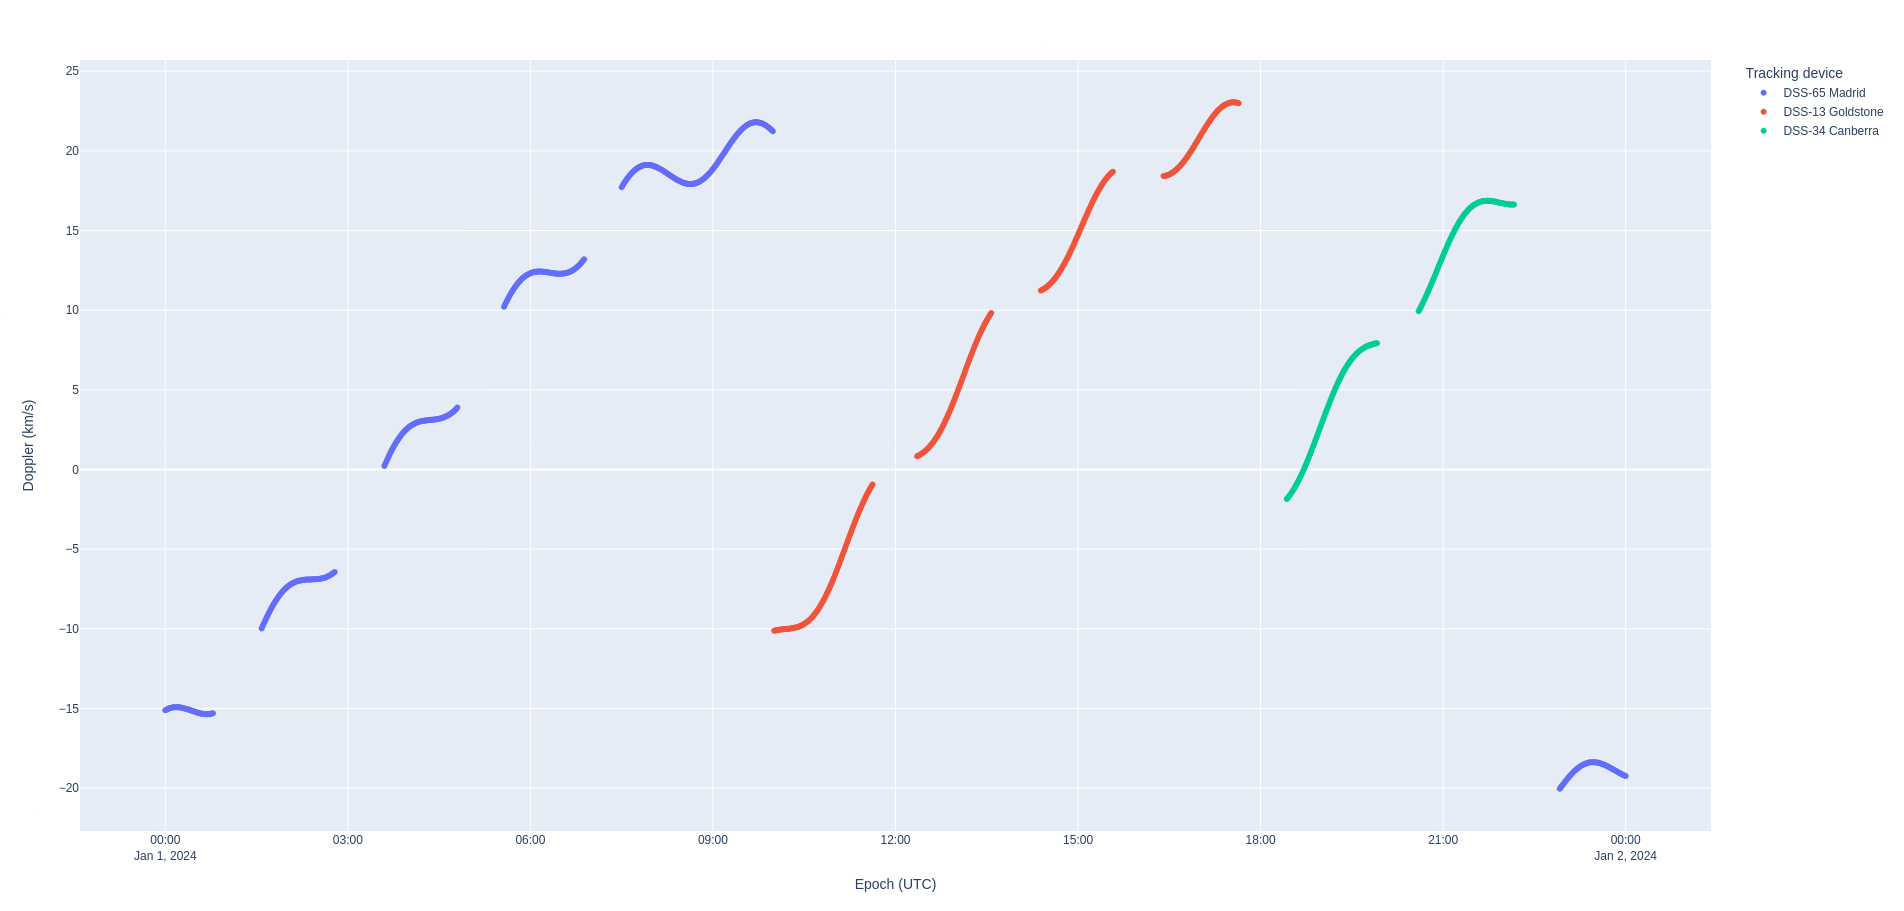
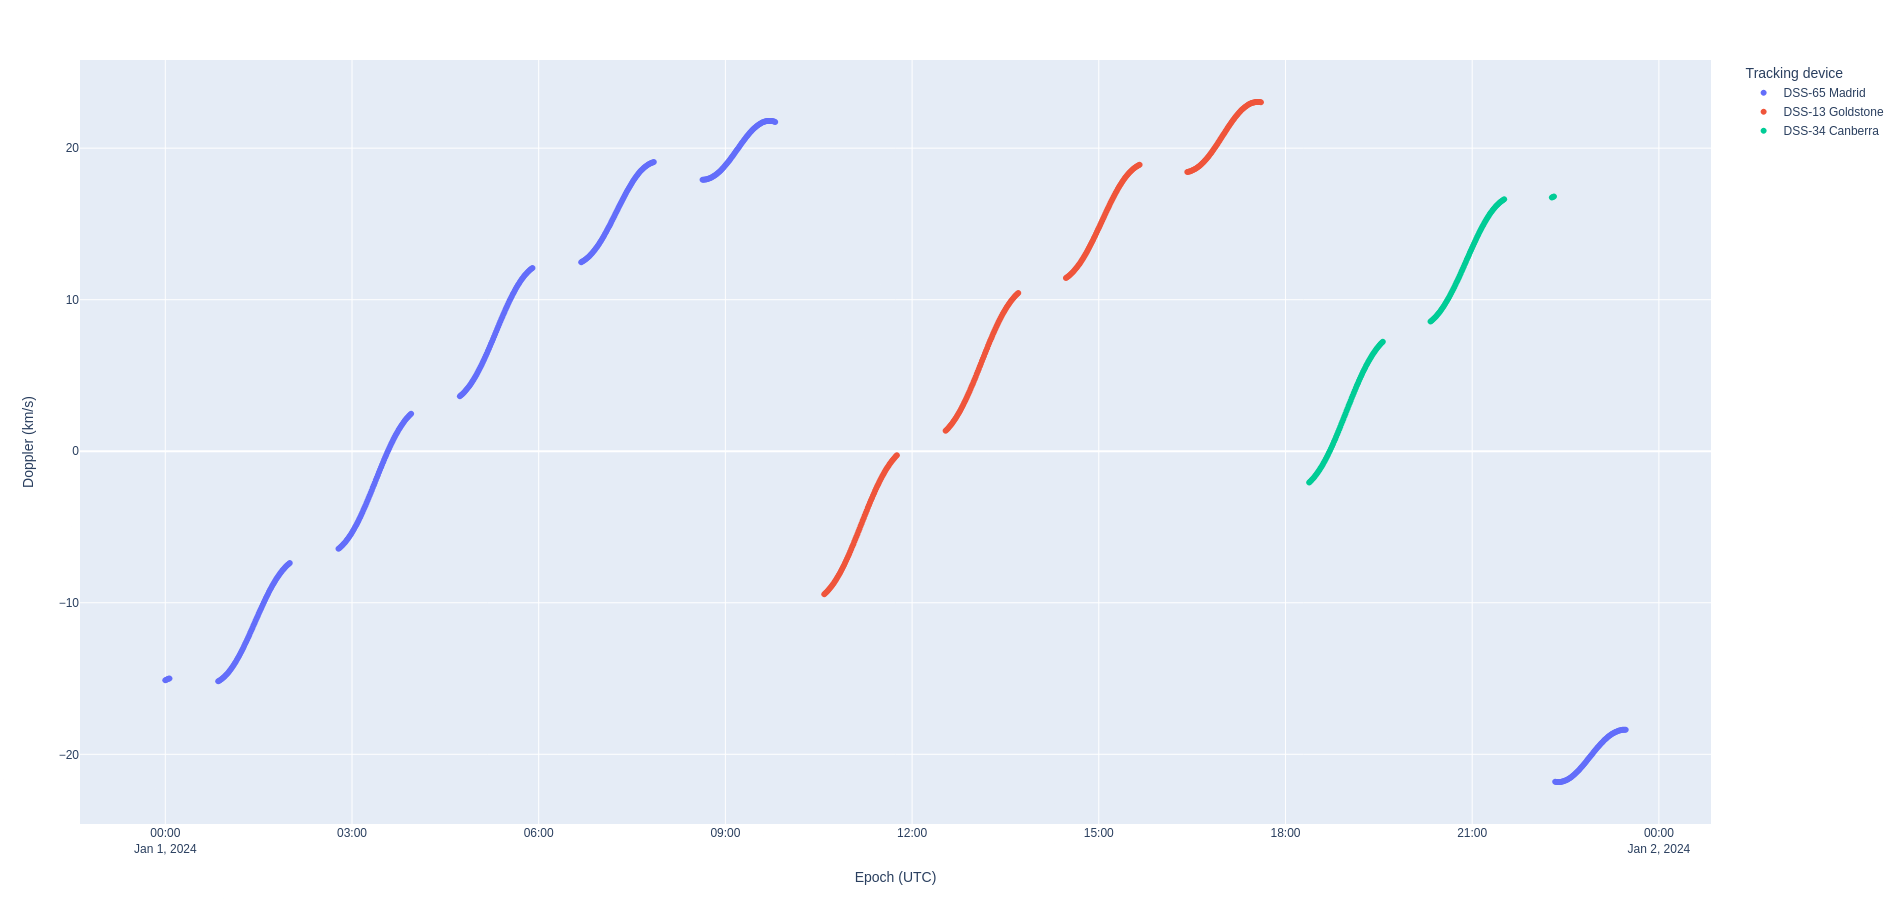
Update LRO example

diff --git a/docs/nyxspace/showcase/04_lro_od/index.md b/docs/nyxspace/showcase/04_lro_od/index.md
@@ -98,7 +98,7 @@ shape: (9, 2)
 
 For this example, we simulate measurements from three of the Deep Space Network ground stations: Canberra, Australia; Madrid, Spain; and Goldstone, CA, USA. Nyx allows configuration of ground stations using a YAML input file, cf. [`dsn-network`](https://github.com/nyx-space/nyx/blob/master/examples/04_lro_od/dsn-network.yaml). These are configured as unbiased white noise ground stations where the standard deviation of the white noise is taken directly from the JPL DESCANSO series. The stochastic modeling in Nyx supports first order Gauss Markov processes and biased white noise.
 
-In this simulation, we are generating geometric one-way range and Doppler measurements. Nyx supports all of the aberration computations provided by ANISE (and validated against SPICE).
+In this simulation, we are generating light-time corrected two-way range and Doppler measurements. Nyx supports all of the aberration computations provided by ANISE (and validated against SPICE).
 
 ## Tracking schedule
 
@@ -115,27 +115,30 @@ To prepare for a mission, flight dynamics engineers must simulate a tracking sch
 The tracking scheduler will start by finding the exact times when the vehicle comes in view, using the embedded event finder on an elevation event.
 
 ```log
+ INFO  nyx_space::od::simulator::arc      > Tracking Arc Simulator on Trajectory of LRO in Moon J2000 (μ = 4902.74987 km^3/s^2, radius = 1737.4 km) from 2024-01-01T00:00:00 UTC to 2024-01-02T00:00:00 UTC (1 day, or 86400.000 s) [17281 states] with devices ["DSS-13 Goldstone", "DSS-34 Canberra", "DSS-65 Madrid"] over TimeSeries [2024-01-01T00:00:00 UTC : 2024-01-02T00:00:00 UTC : 1 min]
+ INFO  nyx_space::od::simulator::arc      > Building schedule for DSS-13 Goldstone
+ INFO  nyx_space::md::trajectory::sc_traj > Converted trajectory from Moon J2000 (μ = 4902.74987 km^3/s^2, radius = 1737.4 km) to Earth IAU_EARTH (μ = 398600.435436096 km^3/s^2) in 221 ms: Trajectory in Earth IAU_EARTH (μ = 398600.436 km^3/s^2, eq. radius = 6378.1366 km, polar radius = 6356.7519 km, f = 0.0033528131084554717) from 2024-01-01T00:00:00 UTC to 2024-01-02T00:00:00 UTC (1 day, or 86400.000 s) [17281 states]
  INFO  nyx_space::md::events::search      > Searching for DSS-13 Goldstone (lat.: 35.2472 deg    long.: 243.2050 deg    alt.: 1071.149 m) [Earth IAU_EARTH (μ = 398600.435436096 km^3/s^2)] with initial heuristic of 14 min 24 s
  INFO  nyx_space::md::events::search      > Event DSS-13 Goldstone (lat.: 35.2472 deg    long.: 243.2050 deg    alt.: 1071.149 m) [Earth IAU_EARTH (μ = 398600.435436096 km^3/s^2)] found 2 times from 2024-01-01T05:49:54.697010810 UTC until 2024-01-01T18:08:53.555326604 UTC
  INFO  nyx_space::od::simulator::arc      > Built 1 tracking strands for DSS-13 Goldstone
  INFO  nyx_space::od::simulator::arc      > Building schedule for DSS-34 Canberra
- INFO  nyx_space::md::trajectory::sc_traj > Converted trajectory from Moon J2000 (μ = 4902.74987 km^3/s^2, radius = 1737.4 km) to Earth IAU_EARTH (μ = 398600.435436096 km^3/s^2) in 220 ms: Trajectory in Earth IAU_EARTH (μ = 398600.436 km^3/s^2, eq. radius = 6378.1366 km, polar radius = 6356.7519 km, f = 0.0033528131084554717) from 2024-01-01T00:00:00 UTC to 2024-01-02T00:00:00 UTC (1 day, or 86400.000 s) [17281 states]
+ INFO  nyx_space::md::trajectory::sc_traj > Converted trajectory from Moon J2000 (μ = 4902.74987 km^3/s^2, radius = 1737.4 km) to Earth IAU_EARTH (μ = 398600.435436096 km^3/s^2) in 212 ms: Trajectory in Earth IAU_EARTH (μ = 398600.436 km^3/s^2, eq. radius = 6378.1366 km, polar radius = 6356.7519 km, f = 0.0033528131084554717) from 2024-01-01T00:00:00 UTC to 2024-01-02T00:00:00 UTC (1 day, or 86400.000 s) [17281 states]
  INFO  nyx_space::md::events::search      > Searching for DSS-34 Canberra (lat.: -35.3983 deg    long.: 148.9819 deg    alt.: 691.750 m) [Earth IAU_EARTH (μ = 398600.435436096 km^3/s^2)] with initial heuristic of 14 min 24 s
  INFO  nyx_space::md::events::search      > Event DSS-34 Canberra (lat.: -35.3983 deg    long.: 148.9819 deg    alt.: 691.750 m) [Earth IAU_EARTH (μ = 398600.435436096 km^3/s^2)] found 2 times from 2024-01-01T13:19:29.424409217 UTC until 2024-01-01T23:47:35.676704956 UTC
  INFO  nyx_space::od::simulator::arc      > Built 1 tracking strands for DSS-34 Canberra
  INFO  nyx_space::od::simulator::arc      > Building schedule for DSS-65 Madrid
- INFO  nyx_space::md::trajectory::sc_traj > Converted trajectory from Moon J2000 (μ = 4902.74987 km^3/s^2, radius = 1737.4 km) to Earth IAU_EARTH (μ = 398600.435436096 km^3/s^2) in 220 ms: Trajectory in Earth IAU_EARTH (μ = 398600.436 km^3/s^2, eq. radius = 6378.1366 km, polar radius = 6356.7519 km, f = 0.0033528131084554717) from 2024-01-01T00:00:00 UTC to 2024-01-02T00:00:00 UTC (1 day, or 86400.000 s) [17281 states]
+ INFO  nyx_space::md::trajectory::sc_traj > Converted trajectory from Moon J2000 (μ = 4902.74987 km^3/s^2, radius = 1737.4 km) to Earth IAU_EARTH (μ = 398600.435436096 km^3/s^2) in 218 ms: Trajectory in Earth IAU_EARTH (μ = 398600.436 km^3/s^2, eq. radius = 6378.1366 km, polar radius = 6356.7519 km, f = 0.0033528131084554717) from 2024-01-01T00:00:00 UTC to 2024-01-02T00:00:00 UTC (1 day, or 86400.000 s) [17281 states]
  INFO  nyx_space::md::events::search      > Searching for DSS-65 Madrid (lat.: 40.4272 deg    long.: 4.2506 deg    alt.: 834.939 m) [Earth IAU_EARTH (μ = 398600.435436096 km^3/s^2)] with initial heuristic of 14 min 24 s
  INFO  nyx_space::md::events::search      > Event DSS-65 Madrid (lat.: 40.4272 deg    long.: 4.2506 deg    alt.: 834.939 m) [Earth IAU_EARTH (μ = 398600.435436096 km^3/s^2)] found 2 times from 2024-01-01T09:59:19.297494580 UTC until 2024-01-01T22:19:56.653993644 UTC
  INFO  nyx_space::od::simulator::arc      > Built 2 tracking strands for DSS-65 Madrid
  INFO  nyx_space::od::simulator::arc      > DSS-65 Madrid configured as Greedy, so DSS-13 Goldstone now starts on 2024-01-01T10:00:20 UTC
  INFO  nyx_space::od::simulator::arc      > DSS-13 Goldstone configured as Greedy, so DSS-34 Canberra now starts on 2024-01-01T18:09:50 UTC
  INFO  nyx_space::od::simulator::arc      > DSS-34 Canberra now hands off to DSS-65 Madrid on 2024-01-01T22:19:00 UTC because it's configured as Eager
- INFO  nyx_space::od::simulator::arc      > Simulated 319 measurements for DSS-13 Goldstone for 1 tracking strands in 13 ms
- INFO  nyx_space::od::simulator::arc      > Simulated 185 measurements for DSS-34 Canberra for 1 tracking strands in 7 ms
- INFO  nyx_space::od::simulator::arc      > Simulated 490 measurements for DSS-65 Madrid for 2 tracking strands in 18 ms
- INFO  nyx_space::od::msr::arc            > Serialized 994 measurements from {"DSS-34 Canberra", "DSS-13 Goldstone", "DSS-65 Madrid"} to ./04_lro_simulated_tracking.parquet
-994 measurements from {"DSS-13 Goldstone", "DSS-65 Madrid", "DSS-34 Canberra"}
+ INFO  nyx_space::od::simulator::arc      > Simulated 286 measurements for DSS-13 Goldstone for 1 tracking strands in 28 ms
+ INFO  nyx_space::od::simulator::arc      > Simulated 147 measurements for DSS-34 Canberra for 1 tracking strands in 14 ms
+ INFO  nyx_space::od::simulator::arc      > Simulated 428 measurements for DSS-65 Madrid for 2 tracking strands in 42 ms
+ INFO  nyx_space::od::msr::data_arc       > Serialized Tracking arc with 861 measurements of type {Doppler, Range} over 23 h 28 min (from 2024-01-01T00:00:00 UTC to 2024-01-01T23:28:00 UTC) with trackers {"DSS-65 Madrid", "DSS-13 Goldstone", "DSS-34 Canberra"} to ./04_lro_simulated_tracking.parquet
+Tracking arc with 861 measurements of type {Doppler, Range} over 23 h 28 min (from 2024-01-01T00:00:00 UTC to 2024-01-01T23:28:00 UTC) with trackers {"DSS-65 Madrid", "DSS-13 Goldstone", "DSS-34 Canberra"}
 ```
 
 ## Tracking arc
@@ -159,23 +162,39 @@ However, as seen in the model matching section, there remains a difference in th
 The filter is configured with the default automatic residual rejection of Nyx whereby any residual ratio greater than 4 sigmas causes the measurement to be rejected. If the residual ratio exceeds this threshold, the measurement is considered an outlier and is rejected by the filter. This process helps to prevent measurements with large errors from negatively impacting the orbit determination solution.
 
 ```log
- INFO  nyx_space::od::process             > Navigation propagating for a total of 1 day with step size 1 min
- INFO  nyx_space::od::process             > Processing 994 measurements with covariance mapping
- INFO  nyx_space::od::process             >  10% done - 101 measurements accepted, 0 rejected
- INFO  nyx_space::od::process             >  20% done - 200 measurements accepted, 0 rejected
- INFO  nyx_space::od::process             >  30% done - 300 measurements accepted, 0 rejected
- INFO  nyx_space::od::process             >  40% done - 394 measurements accepted, 5 rejected
- INFO  nyx_space::od::process             >  50% done - 489 measurements accepted, 9 rejected
- INFO  nyx_space::od::process             >  60% done - 586 measurements accepted, 12 rejected
- INFO  nyx_space::od::process             >  70% done - 677 measurements accepted, 20 rejected
- INFO  nyx_space::od::process             >  80% done - 767 measurements accepted, 30 rejected
- INFO  nyx_space::od::process             >  90% done - 863 measurements accepted, 33 rejected
- INFO  nyx_space::od::process             > 100% done - 955 measurements accepted, 39 rejected (done in 17 s 267 ms 50 μs 496 ns)
+ INFO  nyx_space::od::process             > Navigation propagating for a total of 23 h 28 min with step size 1 min
+ INFO  nyx_space::od::process             > Processing 861 measurements with covariance mapping
+ INFO  nyx_space::od::process             >  10% done - 86 measurements accepted, 2 rejected
+ INFO  nyx_space::od::process             >  20% done - 170 measurements accepted, 4 rejected
+ INFO  nyx_space::od::process             >  30% done - 251 measurements accepted, 9 rejected
+ INFO  nyx_space::od::process             >  40% done - 335 measurements accepted, 11 rejected
+ INFO  nyx_space::od::process             >  50% done - 417 measurements accepted, 15 rejected
+ INFO  nyx_space::od::process             >  60% done - 499 measurements accepted, 19 rejected
+ INFO  nyx_space::od::process             >  70% done - 576 measurements accepted, 28 rejected
+ INFO  nyx_space::od::process             >  80% done - 654 measurements accepted, 36 rejected
+ INFO  nyx_space::od::process             >  90% done - 733 measurements accepted, 43 rejected
+ INFO  nyx_space::od::process             > 100% done - 811 measurements accepted, 50 rejected (done in 16 s 205 ms 604 μs 864 ns)
+== RIC at end ==
+RIC Position (m): 
+  ┌                     ┐
+  │  15.036473615964496 │
+  │  25.260900609850978 │
+  │ -25.319909728125367 │
+  └                     ┘
+
+
+RIC Velocity (m/s): 
+  ┌                      ┐
+  │  0.12656421298129494 │
+  │ -0.10492648512250291 │
+  │   0.1866098373550229 │
+  └                      ┘
+
 ```
 
 # Results
 
-**Nyx provides a good estimation of the orbit of the Lunar Reconnaissance Orbiter, matching the LRO team's desired uncertainty of 800 meters when tracking the vehicle,** despite modeling and filtering differences between GTDS and Nyx. As discussed in the [filter setup](#filter-set-up) section just above, we've had to increase the state noise compensation to account for [oscillating modeling differences](#preliminary-analysis-matching-dynamical-models) between Nyx and the LRO definitive ephemeris.
+**Nyx provides a good estimation of the orbit of the Lunar Reconnaissance Orbiter, matching the LRO team's desired uncertainty of 70.7 meters when tracking the vehicle,** despite modeling and filtering differences between GTDS and Nyx. As discussed in the [filter setup](#filter-set-up) section just above, we've had to increase the state noise compensation to account for [oscillating modeling differences](#preliminary-analysis-matching-dynamical-models) between Nyx and the LRO definitive ephemeris.
 
 ![RIC Covar Position](./plots/covar-ric-pos.png)
 
@@ -183,11 +202,15 @@ The filter is configured with the default automatic residual rejection of Nyx wh
 
 ## Residual ratios
 
-One of the key metrics to determine whether an OD result is correct is to look at the residual ratios. Some orbit determination software, like ODTK (as specified in their MathSpec), treats all measurements as scalars. This could be problematic because the order in which the measurements are processed at each time step will lead to variations in the covariance. For example, if there is an excellent range measurement and an average Doppler measurement for that same time step, then the state covariance will decrease and that greater model filter confidence may cause the Doppler measurement to be rejected. _Instead_, Nyx treats all simultaneous measurements simultaneously, ensuring that the order in which each measurement is processed is not a concern. This mathematically correct approach leads to the loss of the sign of the residual because the ratio is computed as `y_k^T * R_k^{-1} * y_k`, where `y_k` is prefit residual (using the nomenclature from the [Nyx Kalman filter MathSpec](https://nyxspace.com/nyxspace/MathSpec/orbit_determination/kalman/?utm_source=github-lro-rr)). **Therefore, the goodness test of the residual ratios is Chi Square test** with a degree of freedom of 2 (range and Doppler).
+One of the key metrics to determine whether an OD result is correct is to look at the residual ratios. Some orbit determination software, like ODTK (as specified in their MathSpec), treats all measurements as scalars. This could be problematic because the order in which the measurements are processed at each time step will lead to variations in the covariance. For example, if there is an excellent range measurement and an average Doppler measurement for that same time step, then the state covariance will decrease and that greater model filter confidence may cause the Doppler measurement to be rejected.
+
+_Instead_, Nyx allows processing any number of identically time-tagged measurements simultaneously, ensuring that the order in which each measurement is processed is not a concern. This mathematically correct approach leads to the loss of the sign of the residual because the ratio is computed as `y_k^T * R_k^{-1} * y_k`, where `y_k` is prefit residual (using the nomenclature from the [Nyx Kalman filter MathSpec](https://nyxspace.com/nyxspace/MathSpec/orbit_determination/kalman/?utm_source=github-lro-rr)). The $R_k$ matrix is first square-rooted via a Cholesky decomposition: this returns the measurement noise. Then, the ratio is the average of all simultaneously processed prefits divided by the appropriate diagonal element of the decomposed $R_k$ matrix.
+
+**This approach ensures that the residual ratios are still a scalar despite the simultaneous processing.** Of course, the OD filter in Nyx can also be configured to process all measurements sequentially (which is the recommended approach if most measurements are sampled at different times).
 
 We can see that nearly all of the residuals are within the Chi Square distribution, although the tail-end of 4 sigmas is larger than it should be. This is entirely due to the models not matching perfectly, as can be seen in the plot of the residuals rejected over time: the further we are from the start of the OD track, the more measurements are rejected.
 
-![Chi-Squared](./plots/resid-chi-square.png)
+![Quantile-Quantile (QQ)](./plots/resid-qq.png)
 
 ![Rejection](./plots/resid-rejections.png)
 
@@ -202,8 +225,6 @@ Another key metric is whether the residuals fit well within the expected measure
 The following plots show an auto-scaled and a zoomed-in version of the range residuals over time because the state covariance rises with the state noise compensation, causing the auto-scaling to hide the fun details, namely that the oscillatory nature of the modeling difference shows up in the prefit residuals but that the filter adequately corrects its own knowledge with each accepted measurement. The values on this plot is in km as indicated by the legend.
 
 ![Range resid auto](./plots/range-resid.png)
-
-![Range resid zoom](./plots/range-resid-zoom.png)
 
 ### Doppler residuals
 
